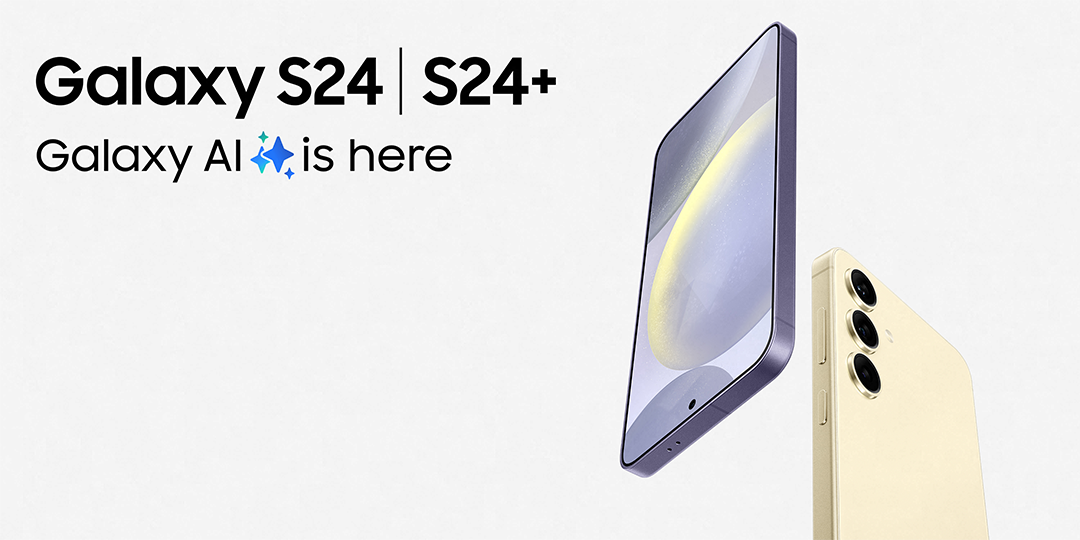
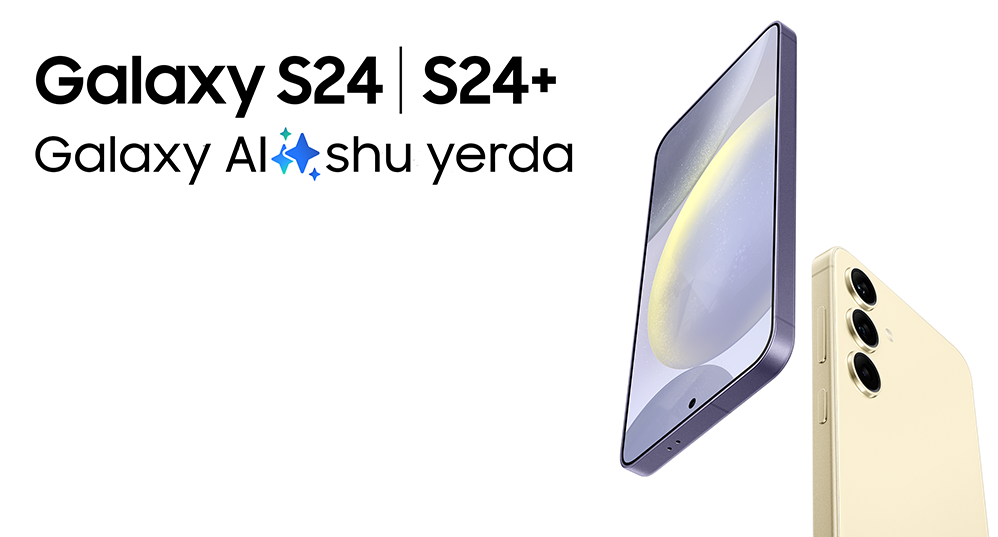
new s24 winner file added touch 1-2 modified

Changed region(s): [[0.0311, 0.0298, 0.994, 1.0]]

diff --git a/S24-Winner/index.html b/S24-Winner/index.html
@@ -249,7 +249,8 @@
                                                 <td class="float-sm" width="40">&nbsp;</td>
                                                 <td width="370" align="right" valign="center" style="font-size: 0px;">
                                                     <p style="font-size:11px; line-height:18px; color:#2c3034 !important;font-family: initial;text-align: start">
-                                                        Galaxy S24
+                                                        Tabriklaymiz! Siz yangi Galaxy S24 smartfonini yutib oldingiz! —
+                                                        Galaxy S24 sizni kutmoqda.
                                                     </p>
                                                 </td>
                                                 <td width="170" align="right" valign="center" style="font-size: 0px;">
@@ -298,8 +299,7 @@
                                                 <td class="float-sm" width="40">&nbsp;</td>
                                                 <td class="float-lg" width="520" align="left" valign="center">
                                                     <p style="Margin:0; font-family: Inter, sans-serif; font-size: 30px; line-height:30px; color:white;">
-                                                        &nbsp;
-                                                    </p>
+                                                        &nbsp;</p>
                                                     <a target="_blank"
                                                        href="https://www.samsung.com/uz_uz/"
                                                        _label='Logo' style="font-size:0px;text-decoration:none;">
@@ -308,38 +308,34 @@
                                                              width="117" style="filter: invert(1)">
                                                     </a>
                                                     <p style="Margin:0; font-family: Inter, sans-serif; font-size: 54px; line-height:54px; color:white;">
-                                                        &nbsp;
+                                                        &nbsp;</p>
+                                                    <p style="Margin:0; text-align: center; font-family: Inter, sans-serif; font-size:26px; line-height:22px; color:black; font-weight: bold;">
+                                                        G'alaba muborak bo'lsin!
                                                     </p>
+                                                    <p style="Margin:0; font-family: Inter, sans-serif; font-size: 30px; line-height:30px; color:white;">
+                                                        &nbsp;</p>
                                                     <p style="Margin:0; text-align: left; font-family: Inter, sans-serif; font-size:20px; line-height:20px; color:black; font-weight: bold;">
-                                                        Tabriklaymiz! Siz yangi Galaxy S24 smartfonini yutib oldingiz!
+                                                        Hurmatli Quryayov Usmonjon Kadambayevich,
                                                     </p>
                                                     <p style="Margin:0; font-family: Inter, sans-serif; font-size: 24px; line-height:24px; color:white;">
-                                                        &nbsp;
-                                                    </p>
-
-                                                    <p style="Margin:0; text-align: left; font-family: Inter, sans-serif; font-size:18px; line-height:18px; color:black; font-weight: bold;">
-                                                        Hurmatli Abrorov Alisher Xolmatovich,
-                                                    </p>
-                                                    <p style="Margin:0; font-family: Inter, sans-serif; font-size: 24px; line-height:24px; color:white;">
-                                                        &nbsp;
+                                                        &nbsp;</p>
+                                                    <p style="Margin:0; text-align: left; font-family: Inter, sans-serif; font-size:18px; line-height:18px; color:black; font-weight: normal;">
+                                                        "Samsung Galaxy Unpacked" yutuqliy oyinda ishtirok etganingiz
+                                                        uchun tashakkurSiz yangi Galaxy S24 smartfonining egasiga
+                                                        aylandingiz.
                                                     </p>
                                                     <p style="Margin:0; text-align: left; font-family: Inter, sans-serif; font-size:18px; line-height:18px; color:black; font-weight: normal;">
-                                                        G'alaba muborak bo'lsin! Siz yangi Galaxy S24 smartfonining
-                                                        egasiga aylandingiz. Sovrinni olish uchun bizning
-                                                        @SamsungElectronicsBot rasmiy Telegram botimizga "Eureka" kalit
-                                                        so'zini va aloqa ma'lumotlaringizni yuboring. So'ngra, sovrinni
-                                                        olish uchun sizga qo'shimcha ko'rsatmalar yuboriladi.
-                                                    </p>
-                                                    <p style="Margin:0; font-family: Inter, sans-serif; font-size: 24px; line-height:24px; color:white;">
-                                                        &nbsp;
+                                                        Sovrinni olish uchun bizning @SamsungElectronicsBot rasmiy
+                                                        Telegram botimizga "Eureka" kalit so'zini va aloqa
+                                                        ma'lumotlaringizni yuboring.
                                                     </p>
                                                     <p style="Margin:0; text-align: left; font-family: Inter, sans-serif; font-size:18px; line-height:18px; color:black; font-weight: normal;">
-                                                        Sovg'ani topshirish 2024-yil 10-fevraldan 29-fevralga qadar
-                                                        bo'lib o'tadi.
+                                                        So'ngra, sovrinni olish uchun sizga qo'shimcha ko'rsatmalar
+                                                        yuboriladi.Sovg'ani topshirish 2024-yil 10-fevraldan 29-fevralga
+                                                        qadar bo'lib o'tadi.
                                                     </p>
-                                                    <p style="Margin:0; font-family: Inter, sans-serif; font-size: 24px; line-height:24px; color:white;">
-                                                        &nbsp;
-                                                    </p>
+                                                    <p style="Margin:0; font-family: Inter, sans-serif; font-size: 15px; line-height:15px; color:white;">
+                                                        &nbsp;</p>
                                                 </td>
                                                 <td class="float-sm" width="40">&nbsp;</td>
                                             </tr>
@@ -371,12 +367,11 @@
                                                style="mso-table-lspace:0pt;mso-table-rspace:0pt;border-collapse:collapse;border-spacing:0px;">
                                             <tbody>
                                             <p style="Margin:0; font-family: Inter, sans-serif; font-size: 10px; line-height:10px; color:white; background: #FFFFFF;">
-                                                &nbsp;
-                                            </p>
+                                                &nbsp;</p>
                                             <tr>
                                                 <td width="100%" align="center" style="font-size: 0px;">
                                                     <img class="img-fluid"
-                                                         src="./i/1.png"
+                                                         src="./i/1.1.png"
                                                          width="100%" height="100%">
                                                 </td>
                                             </tr>
@@ -415,20 +410,18 @@
                                                     <p style="Margin:0; font-family: Inter, sans-serif; font-size:20px; line-height:20px; color:black; font-weight: bold;">
                                                         Diskleymer:
                                                     </p>
-                                                    <p style="Margin:0;height:28px;line-height:28px">&nbsp;</p>
-                                                    <p style="Margin:0;height:10px;line-height:10px">&nbsp;</p>
+                                                    <p style="Margin:0;height:15px;line-height:15px">&nbsp;</p>
                                                     <p style="Margin:0; font-family: Inter, sans-serif; font-size:18px; line-height:18px; color:black; font-weight: normal;">
                                                         Sizdan 1-martga 2024 qadar javob kelmagan taqdirda, biz sizning
                                                         yutug'ingizni amal qilishini tugatishga majbur bo'lamiz.
                                                     </p>
-                                                    <p style="Margin:0;height:28px;line-height:28px">&nbsp;</p>
-                                                    <p style="Margin:0;height:10px;line-height:10px">&nbsp;</p>
+                                                    <p style="Margin:0;height:15px;line-height:15px">&nbsp;</p>
                                                     <p style="Margin:0; font-family: Inter, sans-serif; font-size:18px; line-height:18px; color:black; font-weight: normal;">
                                                         *O'zingiz bilan pasportingiz hamda ishtirok etish uchun
                                                         to'ldirilgan shaklda ko'rsatilgan pochtadan sizga tegishli
                                                         ekanligi tasdig'ini o'zingiz bilan olib kelishni unutmang. Bu
                                                         sizning shaxsingizni tasdiqlash va sovg'ani topshirish uchun
-                                                        talab etiladi
+                                                        talab etiladi.
                                                     </p>
                                                     <p style="Margin:0;height:28px;line-height:28px">&nbsp;</p>
                                                     <p style="Margin:0;height:10px;line-height:10px">&nbsp;</p>
@@ -439,8 +432,8 @@
                                                 <td class="float-sm" width="40">&nbsp;</td>
                                                 <td class="float-lg" width="520" align="center" valign="center">
                                                     <a href="https://www.samsung.com/uz_uz/unpacked/"
-                                                       style="text-decoration: none;font-size: 15px;color: black;border-radius: 20px;padding: 8px 22px 9px 22px;background: white;font-weight: bold;border: 1px solid black;">
-                                                        Перейти в телеграм-бот &gt;</a>
+                                                       style="text-decoration: none;font-size: 15px;color: white;border-radius: 20px;padding: 9px 23px 10px 23px;background: black;font-weight: bold;border: none;">
+                                                        Telegram botga o'tish &gt;</a>
                                                     <p style="Margin:0; font-family: Inter, sans-serif; font-size: 30px; line-height:30px; color:white;">
                                                         &nbsp;
                                                     </p>
@@ -472,41 +465,44 @@
                     </tbody>
                 </table>
                 <!---------------------------------------------- /block 2 text 2 ----------------------------------------------------------->
-
+        <tr>
+            <td bgcolor="#E5E5E5" style="height:50px;font-size:0;background-color: #E5E5E5;" height="50">
+                &nbsp;
+            </td>
+        </tr>
         <tr>
             <td style="mso-line-height-rule:exactly;background-color: #E5E5E5; padding-top: 0px; padding-bottom: 0px;">
                 <table bgcolor="#E5E5E5" cellpadding="0" cellspacing="0" border="0">
                     <tr>
-                        <td align="center" >
+                        <td align="center">
                             <table class="w100pc" style="width:100%;margin:0;padding:0;" cellpadding="0"
                                    cellspacing="0">
                                 <tbody>
                                 <tr>
-                                    <p style="Margin:0;height:28px;line-height:28px">&nbsp;</p>
                                     <td style="width:166px;">&nbsp;</td>
                                     <td class="paddLR10px" style="padding-left:16px;padding-right:16px;"><a
                                             title="Samsung Uzbekistan"
-                                            href="https://www.facebook.com/SamsungUzbekistan"><img border="0" width="57" style="filter: invert(1)"
+                                            href="https://www.facebook.com/SamsungUzbekistan"><img border="0" width="57"
                                                                                                    src="i/ic_fb.png"
                                                                                                    alt="Facebook"></a>
                                     </td>
                                     <td class="paddLR10px" style="padding-left:16px;padding-right:16px;"><a
                                             title="Samsung Uzbekistan"
                                             href="https://www.instagram.com/samsunguzbekistan/"><img border="0"
-                                                                                                     width="57" style="filter: invert(1)"
+                                                                                                     width="57"
                                                                                                      src="i/ic_in.png"
                                                                                                      alt="Instagram"></a>
                                     </td>
                                     <td class="paddLR10px" style="padding-left:16px;padding-right:16px;"><a
                                             title="Samsung Uzbekistan"
                                             href="https://www.youtube.com/c/SamsungUzbekistan"><img border="0"
-                                                                                                    width="57" style="filter: invert(1)"
+                                                                                                    width="57"
                                                                                                     src="i/ic_yt.png"
                                                                                                     alt="Youtube"></a>
                                     </td>
                                     <td class="paddLR10px" style="padding-left:16px;padding-right:16px;"><a
                                             title="Samsung Uzbekistan" href="https://t.me/SamsungUzbekistan"><img
-                                            border="0" width="57" style="filter: invert(1)" src="i/ic_tg.png" alt="Youtube"></a></td>
+                                            border="0" width="57" src="i/ic_tg.png" alt="Youtube"></a></td>
                                     <td style="width:166px;">&nbsp;</td>
                                 </tr>
                                 </tbody>
@@ -514,8 +510,7 @@
                         </td>
                     </tr>
                     <tr>
-                        <td bgcolor="black" style="height:37px;font-size:0;background-color: #E5E5E5;" height="37">
-                            &nbsp;
+                        <td bgcolor="" style="height:37px;font-size:0;background-color: #E5E5E5;" height="37">&nbsp;
                         </td>
                     </tr>
                     <tr>
@@ -524,21 +519,26 @@
                                    cellpadding="0" cellspacing="0" border="0">
                                 <tbody>
                                 <tr>
-                                    <td style="height: 26px;">&nbsp;</td>
-                                </tr>
-                                <tr>
-                                    <td style="font-size:14px;color:#999999; font-family: sans-serif !important;">
-                                        Siz Samsung Newsletter xizmatiga obuna bo‘lganingiz uchun bu xatni oldingiz.
-                                        Bu
-                                        xatga javob berishingiz shart emas, ushbu xat avtomatik ravishda yuborilgan.
-                                        Pochta jo‘natmalarini bekor qilish uchun iltimos quyidagi <a
-                                            style="color:#999999; font-family: sans-serif !important;"
-                                            href="<%@ include option='NmsServer_URL' %>/webApp/samMarketingPrefSyledKZ?id=<%= escapeUrl(recipient.cryptedId)%>&amp;unsub=true"
-                                            _type="optout" _label="11_s23-footer_unsubscribe_text_base-plus">havolaga
-                                        o‘ting</a>.<br><br> ©2023 Samsung Electronics Co., Ltd. Barcha
-                                        huquqlar
-                                        himoyalangan.<br> ТОО «SAMSUNG ELECTRONICS CENTRAL
-                                        EURASIA»<br><br></td>
+                                    <td>
+                                        <p style="font-size:14px;color:#999999; font-family: sans-serif !important;">
+                                            Siz Samsung Newsletter xizmatiga obuna bo‘lganingiz uchun bu xatni oldingiz.
+                                            Bu
+                                            xatga javob berishingiz shart emas, ushbu xat avtomatik ravishda yuborilgan.
+                                            Pochta jo‘natmalarini bekor qilish uchun iltimos quyidagi <a
+                                                style="color:#999999; font-family: sans-serif !important;"
+                                                href="#!"
+                                                _type="optout" _label="11_s23-footer_unsubscribe_text_base-plus">havolaga
+                                            o‘ting</a>.
+                                        </p>
+                                        <p style="margin: 0;font-size:14px;color:#999999; font-family: sans-serif !important;">
+                                            ©2024 Samsung Electronics Co., Ltd. Barcha
+                                            huquqlar
+                                            himoyalangan.
+                                        </p>
+                                        <p style="margin: 0;font-size:14px;color:#999999; font-family: sans-serif !important;">
+                                            ТОО «SAMSUNG ELECTRONICS CENTRAL EURASIA»
+                                        </p>
+                                    </td>
                                 </tr>
                                 <tr>
                                     <td style="height:24px;" height="24">&nbsp;</td>
@@ -564,41 +564,5 @@
         </tbody>
     </table>
 </div>
-<script>
-    // Set the date we're counting down to
-    let countDownDate = new Date("Jan 17, 2024 23:00:00").getTime();
-
-    // Update the count down every 1 second
-    let x = setInterval(function () {
-
-        // Get today's date and time
-        let now = new Date().getTime();
-
-        // Find the distance between now and the count down date
-        let distance = countDownDate - now;
-
-        // Time calculations for days, hours, minutes and seconds
-        let days = Math.floor(distance / (1000 * 60 * 60 * 24));
-        let hours = Math.floor((distance % (1000 * 60 * 60 * 24)) / (1000 * 60 * 60));
-        let minutes = Math.floor((distance % (1000 * 60 * 60)) / (1000 * 60));
-        let seconds = Math.floor((distance % (1000 * 60)) / 1000);
-
-        const daysEl = document.getElementById('days');
-        const hoursEl = document.getElementById('hours');
-        const minEl = document.getElementById('minutes');
-        const secondsEl = document.getElementById('seconds');
-
-        daysEl.innerText = days;
-        hoursEl.innerText = hours;
-        minEl.innerText = minutes;
-        secondsEl.innerText = seconds;
-
-        // If the count down is over, write some text
-        if (distance < 0) {
-            clearInterval(x);
-            document.getElementById("demo").innerHTML = "EXPIRED";
-        }
-    }, 1000);
-</script>
 </body>
 </html>
